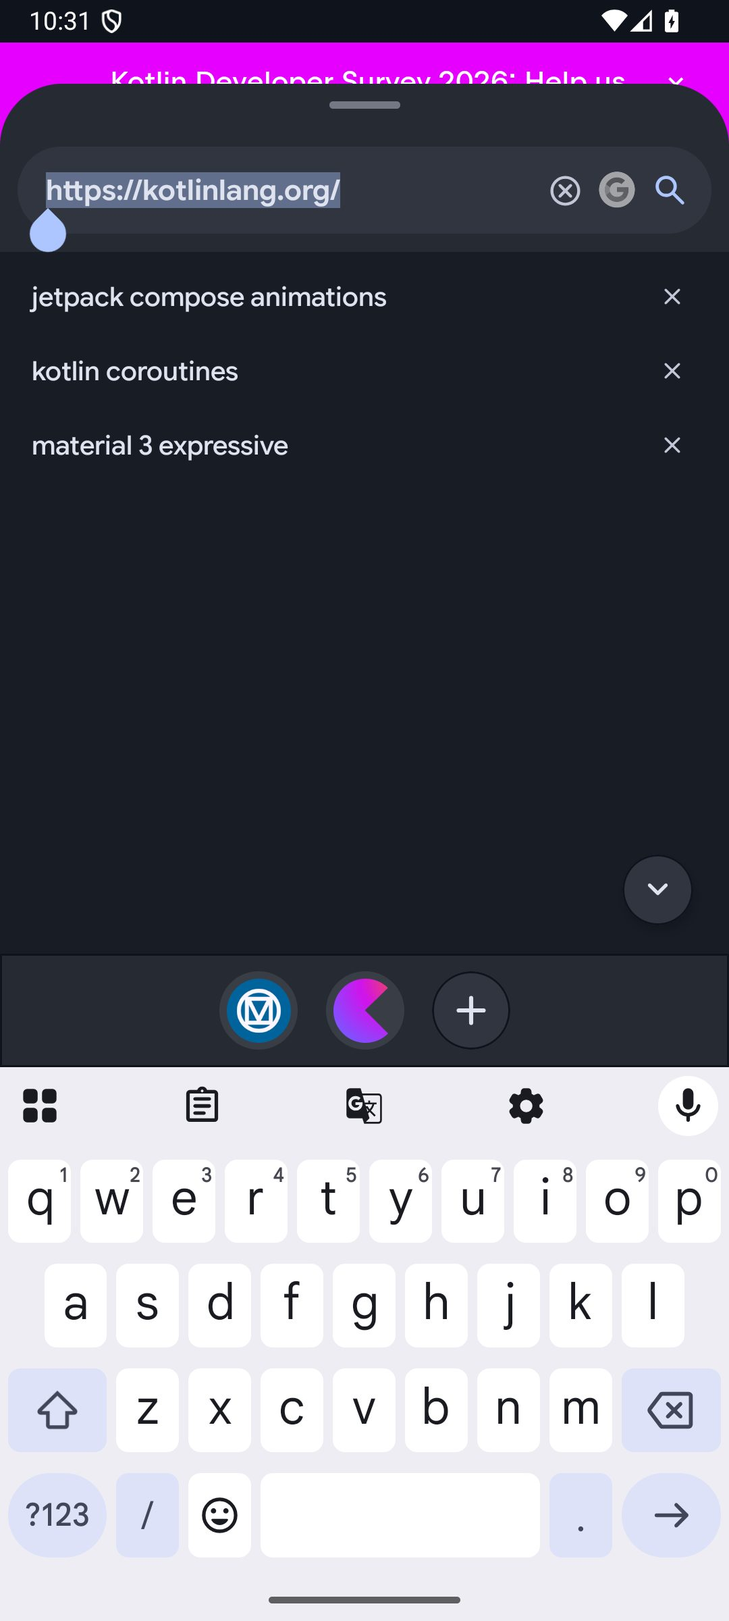
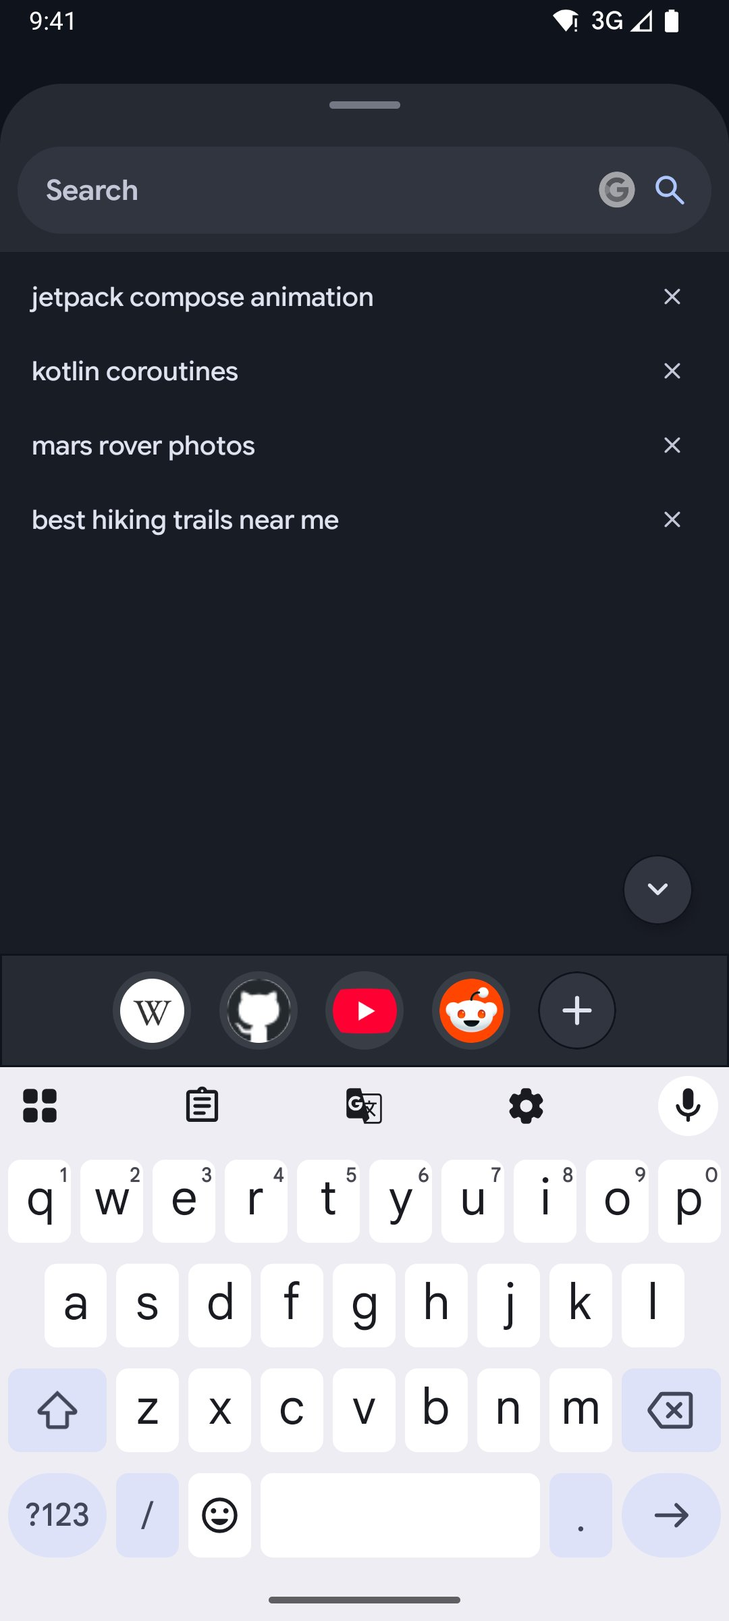
1.1.1: stacked update dialog, address bar and history title fixes, new docs screenshots
- Dialogs with 3+ buttons show the main action as one large full-width
  button with the others below (fixes the overflowing update prompt).
- Address bar shows the full URL when tapped: the focusing tap's stale
  pre-swap text no longer puts the host back.
- History entries saved before the page title arrived get the real title.
- Docs and README: new full-resolution screenshots and text for the tab
  switcher, search suggestions and tab menu; README links the legacy branch.
- Version 1.1.1 (111).

diff --git a/docs/src/app/user/page.tsx b/docs/src/app/user/page.tsx
@@ -81,7 +81,7 @@ export default function UserDocs() {
                   <div className="space-y-6 inline-block text-left w-full">
                     <div className="space-y-4">
                       <GuideItem icon={<MousePointer2 size={18} />} title="Tap the Pill" desc="Focuses the address bar. Type a URL or a search query to navigate instantly." />
-                      <GuideItem icon={<ChevronRight size={18} className="-rotate-90" />} title="Swipe Up" desc="Opens the Tab Switcher: every open tab as a card, with quick actions, Bookmarks and Settings." />
+                      <GuideItem icon={<ChevronRight size={18} className="-rotate-90" />} title="Swipe Up" desc="Opens the Tab Switcher. The page shrinks into its card as your finger moves, like a phone's recent apps screen." />
                       <GuideItem icon={<ChevronRight size={18} className="rotate-90" />} title="Swipe Down" desc="Hides the Pill entirely for an immersive full-screen experience. Tap or swipe up on the floating recall button to bring it back." />
                       <div id="recall-button">
                         <GuideItem icon={<GripHorizontal size={18} />} title="Move the Recall Button" desc="While the Pill is hidden, swipe the recall button left or right. It follows your finger and pins to the left, center, or right of the screen, wherever you let go." />
@@ -102,34 +102,34 @@ export default function UserDocs() {
                     </div>
                   </div>
                 </div>
-                <DeviceMockup src="/images/homepage.jpg" color="blue" />
+                <DeviceMockup src="/images/browsing.jpg" color="blue" />
               </div>
             </motion.div>
 
-            {/* 2. The Dashboard - IMAGE LEFT */}
+            {/* 2. The Tab Switcher - IMAGE LEFT */}
             <motion.div id="dashboard" {...fadeInUp} className="space-y-12">
               <div className="flex items-center justify-center sm:justify-start gap-3">
                 <div className="p-2 rounded-xl bg-orange-500/10 text-orange-600">
                   <Layout size={24} />
                 </div>
-                <h2 className="text-2xl sm:text-3xl font-bold tracking-tight">The Dashboard</h2>
+                <h2 className="text-2xl sm:text-3xl font-bold tracking-tight">The Tab Switcher</h2>
               </div>
               <div className="grid lg:grid-cols-2 gap-12 items-center text-center sm:text-left lg:flex-row-reverse">
                 <div className="order-2 lg:order-1">
-                  <DeviceMockup src="/images/dashboard.jpg" color="orange" />
+                  <DeviceMockup src="/images/tab_switcher.jpg" color="orange" />
                 </div>
                 <div className="space-y-6 order-1 lg:order-2">
                   <p className="text-base sm:text-lg text-white/60 leading-relaxed font-medium">
-                    Swipe up on the Pill from any page to open the Tab Switcher. The bar at the bottom acts on the centered tab: share, bookmark, new tab (+), close, and the ⋮ tab menu. Bookmarks sit on the left, Settings on the right.
+                    Swipe up on the Pill from any page to open the Tab Switcher. Your current tab sits on the far right; swipe right to go back through the tabs you used before. The bar at the bottom has a new tab button (+) and the ⋮ tab menu, with Bookmarks on the left and Settings on the right.
                   </p>
                   <div className="grid grid-cols-1 sm:grid-cols-2 gap-4 text-left">
-                    <GuideItem icon={<Layers size={18} />} title="Tabs" desc="Swipe between cards and tap one to open it." />
-                    <GuideItem icon={<Bookmark size={18} />} title="Bookmarks" desc="The left button opens your Library: Bookmarks and History." />
-                    <GuideItem icon={<History size={18} />} title="History" desc="Switch to History from the Library header." />
-                    <GuideItem icon={<Settings2 size={18} />} title="Settings" desc="The right button opens app Settings." />
+                    <GuideItem icon={<Layers size={18} />} title="Tabs" desc="Swipe between cards and tap one to zoom back into it. Most recently used on the right." />
+                    <GuideItem icon={<Bookmark size={18} />} title="Library" desc="The left button opens Bookmarks and History on top of the switcher; closing it takes you back." />
+                    <GuideItem icon={<History size={18} />} title="New Tab" desc="The + button opens a fresh tab and zooms into it." />
+                    <GuideItem icon={<Settings2 size={18} />} title="Settings" desc="The right button opens Settings on top of the switcher." />
                   </div>
                   <div className="p-4 rounded-xl border border-white/5 bg-white/5 text-[10px] sm:text-xs text-white/50">
-                    <p><strong>Tab Menu:</strong> Tap ⋮ in the switcher for Find in Page, QR tools, Print, Add to Home screen, and the Desktop and Reader Mode toggles.</p>
+                    <p><strong>Tab Menu:</strong> Tap ⋮ for actions on the centered tab: Share, Bookmark in folder, Find in Page, QR tools, Print, Add to Home screen, Desktop and Reader Mode, and Close all tabs.</p>
                   </div>
                 </div>
               </div>
@@ -150,6 +150,7 @@ export default function UserDocs() {
                   </p>
                   <div className="space-y-4 inline-block text-left w-full">
                     <GuideItem icon={<Clock size={18} />} title="Recent Searches" desc="Drag the handle above the focused Pill upwards to reveal your recent searches. Tap one to put it back in the address bar." />
+                    <GuideItem icon={<Search size={18} />} title="Search Suggestions" desc="While the drawer is open, suggestions from your search engine appear as you type, after your own matching past searches. The drawer never opens by itself." />
                     <GuideItem icon={<FolderHeart size={18} />} title="Favorites Bar" desc="A persistent row of your top 5 pinned sites sits at the bottom of the drawer for instant navigation." />
                     <GuideItem icon={<Maximize size={18} />} title="Adding Favorites" desc="Tap the '+' icon in the Favorites Bar to instantly pin the current page to your quick-access list." />
                     <GuideItem icon={<GripHorizontal size={18} />} title="Rearrange Favorites" desc="Touch and drag any favorite icon to reorder them instantly." />
@@ -173,18 +174,18 @@ export default function UserDocs() {
               </div>
               <div className="grid lg:grid-cols-2 gap-12 items-center text-center sm:text-left lg:flex-row-reverse">
                 <div className="order-2 lg:order-1">
-                  <DeviceMockup src="/images/tab_grid.jpg" color="purple" />
+                  <DeviceMockup src="/images/tab_zoom.jpg" color="purple" />
                 </div>
                 <div className="space-y-6 order-1 lg:order-2">
                   <p className="text-base sm:text-lg text-white/60 leading-relaxed font-medium">
-                    Your tabs are laid out like an app switcher, with live snapshots so you never lose your place.
+                    Moving between tabs feels like switching apps: the live page zooms out into its card under your finger, and zooms back in when you pick a tab.
                   </p>
                   <div className="space-y-4 inline-block text-left">
-                    <GuideItem icon={<Trash2 size={18} />} title="Closing Tabs" desc="Swipe a card up to close it, then tap Undo if you didn't mean to. Use 'Close all tabs' in the ⋮ menu to reset completely." />
+                    <GuideItem icon={<Trash2 size={18} />} title="Closing Tabs" desc="Swipe a card up. It resists until you pass the threshold (you'll feel a tick), then follows your finger; let go to close. Tap Undo if you didn't mean to. 'Close all tabs' is in the ⋮ menu." />
                     <div id="tab-editing">
                       <GuideItem icon={<Pencil size={18} />} title="Tab Editing" desc="Long-press a card to rename the tab." />
                     </div>
-                    <GuideItem icon={<Zap size={18} />} title="Visual Snapshots" desc="Real-time previews of your pages help you identify the right tab in seconds." />
+                    <GuideItem icon={<Zap size={18} />} title="Live Previews" desc="Every card shows a snapshot of its page, updated whenever you leave the tab." />
                   </div>
                 </div>
               </div>
@@ -204,7 +205,7 @@ export default function UserDocs() {
                     Keep your favorite corners of the web organized. mi. Browser provides a flexible bookmarking system with folder support.
                   </p>
                   <div className="space-y-4 inline-block text-left w-full">
-                    <GuideItem icon={<MousePointer2 size={18} />} title="Quick Save" desc="Open the Dashboard Menu and select 'Bookmark' to instantly save the current page to your library." />
+                    <GuideItem icon={<MousePointer2 size={18} />} title="Quick Save" desc="Open the Tab Switcher's ⋮ menu and choose 'Bookmark in folder…' to save the centered tab to your library." />
                     <div id="bookmark-swiping">
                       <GuideItem icon={<RefreshCw size={18} />} title="Swipe to Edit" desc="Swipe left on any bookmark or folder to reveal Edit and Delete actions. You can change names, URLs, or move items between folders." />
                     </div>
@@ -356,7 +357,7 @@ export default function UserDocs() {
                 </div>
                 <div className="space-y-6 order-1 lg:order-2">
                   <p className="text-base sm:text-lg text-white/60 leading-relaxed font-medium">
-                    Tap the Menu button on the Dashboard to access advanced utility tools for any page.
+                    Tap ⋮ in the Tab Switcher to access utility tools for the centered tab.
                   </p>
                   <div className="grid grid-cols-1 gap-4 inline-block text-left w-full">
                     <div id="home-button">

diff --git a/app/src/main/java/com/jlees/mibrowser/ui/Pill.kt b/app/src/main/java/com/jlees/mibrowser/ui/Pill.kt
@@ -314,6 +314,9 @@ private fun SearchPillContent(vm: BrowserViewModel, pill: PillState, focusedAdd:
     val s = vm.settings
     val focusRequester = remember { FocusRequester() }
     var tfv by remember { mutableStateOf(TextFieldValue(vm.inputUrl)) }
+    // On focus the host is swapped for the full URL, but the focusing tap then reports its cursor placement together
+    // with the pre-swap text; that report must not put the host back. Cleared once focus settles.
+    var staleText by remember { mutableStateOf<String?>(null) }
     // selectTextOnFocus: the tap that focuses the field places the cursor right after focus; re-select everything
     // once that settles (this also syncs the keyboard's selection, so typing replaces the URL).
     LaunchedEffect(vm.isInputFocused) {
@@ -322,6 +325,7 @@ private fun SearchPillContent(vm: BrowserViewModel, pill: PillState, focusedAdd:
             kotlinx.coroutines.delay(120)
             // only if nothing was typed meanwhile, or the first keystroke would be selected and overwritten
             if (tfv.text == before) tfv = tfv.copy(selection = TextRange(0, tfv.text.length))
+            staleText = null
         }
     }
     LaunchedEffect(vm.inputUrl) { if (tfv.text != vm.inputUrl) tfv = TextFieldValue(vm.inputUrl, TextRange(vm.inputUrl.length)) }
@@ -372,7 +376,11 @@ private fun SearchPillContent(vm: BrowserViewModel, pill: PillState, focusedAdd:
                 Row(Modifier.fillMaxSize().padding(end = 12.dp), verticalAlignment = Alignment.CenterVertically) {
                     BasicTextField(
                         value = tfv,
-                        onValueChange = { if (it.text != tfv.text) vm.onTyping(it.text, pill.recentExpanded); tfv = it; vm.inputUrl = it.text },
+                        onValueChange = { v ->
+                            if (v.text == staleText && v.text != tfv.text) return@BasicTextField // stale pre-focus text (see staleText)
+                            if (v.text != tfv.text) vm.onTyping(v.text, pill.recentExpanded)
+                            tfv = v; vm.inputUrl = v.text
+                        },
                         modifier = Modifier.weight(1f).padding(horizontal = 16.dp)
                             .pointerInput(Unit) {
                                 awaitEachGesture {
@@ -393,6 +401,7 @@ private fun SearchPillContent(vm: BrowserViewModel, pill: PillState, focusedAdd:
                             .onFocusChanged { st ->
                                 if (st.isFocused && !vm.isInputFocused) {
                                     vm.isInputFocused = true
+                                    staleText = tfv.text
                                     val full = vm.activeUrl ?: ""
                                     vm.inputUrl = full
                                     tfv = TextFieldValue(full, TextRange(0, full.length)) // selectTextOnFocus

diff --git a/docs/src/app/page.tsx b/docs/src/app/page.tsx
@@ -71,9 +71,9 @@ export default function Home() {
       {/* Detailed Features: Alternating Sections */}
       <div className="space-y-24 sm:space-y-32 py-24 sm:py-32">
         
-        {/* The Pill / Dashboard */}
+        {/* The Pill */}
         <FeatureDetail 
-          image={getAssetPath("/images/dashboard.jpg")}
+          image={getAssetPath("/images/browsing.jpg")}
           tag="Interaction"
           tagColor="text-blue-600 dark:text-blue-400 bg-blue-500/10 border-blue-500/20"
           title="One Pill. Total Control."
@@ -90,16 +90,16 @@ export default function Home() {
 
         {/* Tab Management */}
         <FeatureDetail 
-          image={getAssetPath("/images/tab_grid.jpg")}
+          image={getAssetPath("/images/tab_zoom.jpg")}
           tag="Organization"
           tagColor="text-purple-600 dark:text-purple-400 bg-purple-500/10 border-purple-500/20"
           title="Visual Tab Management."
-          description="Stop guessing which tab is which. The Tab Switcher shows your tabs like recent apps, with live snapshots. Swipe a card up to close it."
+          description="Swipe up and the page zooms out into a card, just like your phone's recent apps. Your tabs line up by when you last used them, with live previews. Swipe a card up to close it."
           bullets={[
-            "Visual snapshot previews",
+            "Zooms with your finger",
+            "Most recent tab on the right",
             "Swipe up to close, with undo",
-            "Tab actions in one bar",
-            "Hyper-fast tab switching"
+            "Live previews of every tab"
           ]}
           imageSide="left"
           glowColor="purple"
@@ -128,7 +128,7 @@ export default function Home() {
           tag="Utility"
           tagColor="text-cyan-600 dark:text-cyan-400 bg-cyan-500/10 border-cyan-500/20"
           title="Power in your pocket."
-          description="The Power Tools menu provides instant access to the utilities you use most. From built-in QR code generation and scanning to desktop mode toggles and a clean Reader View, everything is just a tap away in the Dashboard Menu."
+          description="The Power Tools menu provides instant access to the utilities you use most. From built-in QR code generation and scanning to desktop mode toggles and a clean Reader View, everything is just a tap away in the Tab Switcher's ⋮ menu."
           bullets={[
             "Integrated QR Toolbox",
             "One-tap Reader Mode",

diff --git a/app/src/main/java/com/jlees/mibrowser/ui/Overlays.kt b/app/src/main/java/com/jlees/mibrowser/ui/Overlays.kt
@@ -41,6 +41,8 @@ import androidx.compose.ui.focus.focusRequester
 import androidx.compose.ui.focus.onFocusChanged
 import androidx.compose.ui.graphics.Color
 import androidx.compose.ui.graphics.SolidColor
+import androidx.compose.material3.MaterialTheme
+import androidx.compose.material3.Text
 import androidx.compose.ui.graphics.asAndroidBitmap
 import androidx.compose.ui.platform.LocalContext
 import androidx.compose.ui.platform.LocalFocusManager
@@ -305,11 +307,29 @@ fun CustomAlert(data: AlertData?, onButton: () -> Unit, onCancel: () -> Unit) {
     var last by remember { mutableStateOf(data) }
     if (data != null) last = data
     val d = last ?: return
+    // 3+ buttons don't fit in one row: the last (main) action becomes a large full-width button, the rest go below it
+    val stacked = d.buttons.size > 2
     ModalFrame(data != null, onCancel, dismissOnScrim = true) {
-        DialogCard(d.title, actions = {
+        DialogCard(d.title, actions = if (stacked) null else { {
             d.buttons.forEach { b -> DialogAction(b.text, destructive = b.style == "destructive") { onButton(); b.onPress() } }
-        }) {
+        } }) {
             Txt(d.message, 14f, ui.cs.onSurfaceVariant, ui.regular, lineHeight = 20f)
+            if (stacked) {
+                val main = d.buttons.last()
+                Button({ onButton(); main.onPress() }, Modifier.fillMaxWidth().padding(top = 24.dp).heightIn(min = 52.dp)) {
+                    Text(main.text, style = MaterialTheme.typography.labelLarge)
+                }
+                Row(Modifier.fillMaxWidth().padding(top = 8.dp), horizontalArrangement = Arrangement.spacedBy(8.dp)) {
+                    d.buttons.dropLast(1).forEach { b ->
+                        TextButton({ onButton(); b.onPress() }, Modifier.weight(1f)) {
+                            Text(
+                                b.text, color = if (b.style == "destructive") ui.cs.error else ui.cs.primary,
+                                style = MaterialTheme.typography.labelLarge, textAlign = TextAlign.Center, maxLines = 2,
+                            )
+                        }
+                    }
+                }
+            }
         }
     }
 }

diff --git a/docs/src/components/search.tsx b/docs/src/components/search.tsx
@@ -17,7 +17,7 @@ const MOCK_DATA: SearchResult[] = [
   { title: "Core Interactions", type: "User Guide", href: "/user#the-pill", excerpt: "Master the core interaction element: tap and swipe-up gestures." },
   { title: "The Pill", type: "User Guide", href: "/user#the-pill", excerpt: "Master the core interaction element: tap and swipe-up gestures." },
   { title: "Navigation Gestures", type: "User Guide", href: "/user#gestures", excerpt: "Learn horizontal swipe gestures for back/forward navigation." },
-  { title: "Tab Switcher", type: "User Guide", href: "/user#dashboard", excerpt: "Swipe up on the Pill for your tabs, quick actions, Bookmarks and Settings." },
+  { title: "Tab Switcher", type: "User Guide", href: "/user#dashboard", excerpt: "Swipe up on the Pill: the page zooms into a recent-apps style view of your tabs." },
   { title: "Recent Searches", type: "User Guide", href: "/user#recent-history", excerpt: "Drag the search handle up to reveal recent searches and favorites." },
   { title: "Recall Button", type: "User Guide", href: "/user#recall-button", excerpt: "Swipe the recall button sideways to pin it left, center, or right." },
   { title: "Tab Management", type: "User Guide", href: "/user#tabs", excerpt: "Visual snapshots, swipe to close, and undo." },

diff --git a/app/src/main/java/com/jlees/mibrowser/logic/Logic.kt b/app/src/main/java/com/jlees/mibrowser/logic/Logic.kt
@@ -63,7 +63,11 @@ fun pushNavigation(t: TabItem, url: String): Pair<List<String>, Int> {
 /** addToHistory: returns new (history, recentSearches). */
 fun addHistory(history: List<HistoryItem>, recents: List<HistoryItem>, url: String, title: String?, now: Long = System.currentTimeMillis()): Pair<List<HistoryItem>, List<HistoryItem>> {
     if (url.isEmpty() || url == "about:blank") return history to recents
-    val newHistory = if (history.isNotEmpty() && history[0].url == url) history else {
+    val newHistory = if (history.isNotEmpty() && history[0].url == url) {
+        // the page was recorded before its title arrived (host placeholder): take the real title now
+        val better = historyTitle(url, title)
+        if (better != history[0].title && better != displayHost(url)) listOf(history[0].copy(title = better)) + history.drop(1) else history
+    } else {
         val trimmed = url.removeSuffix("/")
         (listOf(HistoryItem(url, historyTitle(url, title), now, uniqueId())) + history.filter { it.url.removeSuffix("/") != trimmed }).take(1000)
     }

diff --git a/docs/src/app/developer/page.tsx b/docs/src/app/developer/page.tsx
@@ -68,9 +68,9 @@ export default function DeveloperDocs() {
                             { name: "Homepage", src: "/images/homepage.jpg" },
                             { name: "Focused Pill", src: "/images/focused_pill.jpg" },
                             { name: "Expanded Search", src: "/images/recent_history.jpg" },
-                            { name: "Dashboard", src: "/images/dashboard.jpg" },
-                            { name: "Tabs Grid", src: "/images/tab_grid.jpg" },
-                            { name: "Tabs List", src: "/images/tab_rows.jpg" },
+                            { name: "Browsing", src: "/images/browsing.jpg" },
+                            { name: "Tab Switcher", src: "/images/tab_switcher.jpg" },
+                            { name: "Tab Zoom", src: "/images/tab_zoom.jpg" },
                             { name: "Bookmarks", src: "/images/bookmarks.jpg" },
                             { name: "History", src: "/images/history.jpg" },
                             { name: "Power Tools", src: "/images/power_tools.jpg" },

diff --git a/app/src/test/java/com/jlees/mibrowser/LogicTest.kt b/app/src/test/java/com/jlees/mibrowser/LogicTest.kt
@@ -75,6 +75,15 @@ class LogicTest {
         assertEquals(false, newer("v1.0.0-beta", "1.0.0"))
     }
 
+    @Test fun historyTitleUpgradesFromHostPlaceholder() {
+        val url = "https://en.wikipedia.org/wiki/Mars"
+        val (h1, _) = addHistory(emptyList(), emptyList(), url, "en.wikipedia.org") // loaded before the title arrived
+        val (h2, _) = addHistory(h1, emptyList(), url, "Mars - Wikipedia")
+        assertEquals(listOf("Mars - Wikipedia"), h2.map { it.title })
+        val (h3, _) = addHistory(h2, emptyList(), url, null) // a later call without a title keeps the real one
+        assertEquals("Mars - Wikipedia", h3[0].title)
+    }
+
     @Test fun tabHistoryIsCapped() {
         val (stack, idx) = capped(List(MAX_TAB_HISTORY + 5) { "https://e.com/$it" }, MAX_TAB_HISTORY + 4)
         assertEquals(MAX_TAB_HISTORY, stack.size)

diff --git a/README.md b/README.md
@@ -3,10 +3,10 @@
 **mi.** (pronounced "my") is a hyper-lightweight, distraction-free Android browser. It replaces the traditional toolbar with a single, gesture-driven **Pill**, and is built natively in **Kotlin** with **Jetpack Compose** and **Material 3 Expressive**.
 
 <p align="center">
-  <img src="docs/public/images/homepage.jpg" width="200" alt="Home page" />
-  <img src="docs/public/images/dashboard.jpg" width="200" alt="Pill toolbar" />
-  <img src="docs/public/images/tab_grid.jpg" width="200" alt="Tabs" />
-  <img src="docs/public/images/settings.jpg" width="200" alt="Settings" />
+  <img src="docs/public/images/browsing.jpg" width="200" alt="Browsing with the Pill" />
+  <img src="docs/public/images/tab_zoom.jpg" width="200" alt="Swiping up: the page zooms into the tab switcher" />
+  <img src="docs/public/images/tab_switcher.jpg" width="200" alt="Tab switcher" />
+  <img src="docs/public/images/focused_pill.jpg" width="200" alt="Search with suggestions" />
 </p>
 
 ## 🌐 Website
@@ -18,9 +18,10 @@ Features, screenshots and guides: **[jleescy.github.io/mi-browser](https://jlees
 ## 🚀 Highlights
 - **The Pill**: one control for everything. Tap to search (with suggestions), swipe up for the tab switcher, swipe sideways for back/forward, swipe down to hide it. The recall button can be pinned left, center or right.
 - **Material 3 Expressive**: colors generated from your accent or your wallpaper (Material You), Light/Dark/System themes, Google Sans Flex (with an optional rounded style) and Material Symbols.
-- **Tab switcher**: an app-switcher-style carousel of live tab previews. Swipe a card up to close it (with undo); quick actions, the tab menu, bookmarks and settings sit in the bottom bar.
+- **Tab switcher**: swipe up and the page zooms out into its card, just like your phone's recent apps. Tabs line up by when you last used them (current tab on the right), with live previews. Swipe a card up to close it (with undo); new tab, the tab menu, bookmarks and settings sit in the bottom bar.
+- **Search**: suggestions from your search engine after your own past searches, plus a favorites bar.
 - **Bookmarks & history**: folders, drag to reorder, swipe actions, search, and grouping by time or site.
-- **Power tools**: find in page, QR scan (camera or image) and generate, reader mode, desktop mode, share and print.
+- **Power tools** (in the tab menu): find in page, QR scan (camera or image) and generate, reader mode, desktop mode, share and print.
 - **Privacy & security**: built-in ad/tracker blocking, third-party cookies blocked, HTTPS-only mode, per-site camera/mic/location prompts, pop-up blocking, confirmation before downloads or opening other apps, punycode display for look-alike domains, Safe Browsing. No tracking; all data stays on your device.
 
 ## 📥 Installation
@@ -51,7 +52,7 @@ app/src/main/java/com/jlees/mibrowser/
 docs/                     # project website (Next.js, deployed to GitHub Pages)
 ```
 
-The 0.x releases were built with React Native; 1.0 is a ground-up native rewrite. The old source is in git history at commit `c22a4d8`.
+The 0.x releases were built with React Native; 1.0 is a ground-up native rewrite. The old source is on the [`legacy`](https://github.com/jleescy/mi-browser/tree/legacy) branch.
 
 ---
 <p align="center">

diff --git a/notes/KOTLIN_PORT_PLAN.md b/notes/KOTLIN_PORT_PLAN.md
@@ -32,6 +32,7 @@ Goal: an Android-only Kotlin + Jetpack Compose app that behaves identically, fea
 - **Memory/efficiency audit**: at most `MAX_LIVE_TABS` (5) live WebViews, least recently viewed evicted with `saveState` and restored with `restoreState` when opened (fresh WebViews load the tab's current URL, not its first requested one); `onTrimMemory(BACKGROUND+)` trims to the visible tab; `onDestroy` destroys all WebViews; unused pop-up WebViews are destroyed after 10 s; per-tab history capped at 100 (`MAX_TAB_HISTORY`); startup sweep of orphaned previews, upload captures, shared QR images, the update APK, and replaced home backgrounds; 16 MB `HttpResponseCache` for favicons/suggestions. Already bounded: history 1000, recent searches 20, image cache 24 MB, debounced off-main-thread saves. The blocklist set costs ~4–5 MB of heap.
 - **Switcher previews for every tab**: besides the swipe-up capture, the outgoing tab is captured whenever the active tab changes outside the switcher (`setActiveTab`/`addNewTab` → `vm.capturePreview`, a hook set by MainActivity and cleared in `onDestroy`). Tabs never shown (background tabs) still show their host until visited.
 - **Search pill never auto-focuses**: `focusProperties { canFocus = allowFocus }` on the field; `allowFocus` is set by a touch-down on the field (Initial pass) or a `UiEvent.FocusInput` request, and reset on blur or when the touch turns into a swipe (the swipe up to the switcher starts on the field); focus is also refused while the switcher is visible. Cause: removing a focused WebView (closing/switching tabs) hands focus back to Compose, which picks the first focusable; on a blank home tab that is the field.
+- **1.1.1**: dialogs with 3+ buttons stack them (main action full width, others below) — fixes the overflowing update prompt; the address bar shows the full URL on focus (the focusing tap reported the pre-swap host text, now ignored via `staleText`); history entries recorded before the page title arrived get the real title (`addHistory`). Docs/README screenshots retaken for the tab switcher.
 - **Deferred (user asked to save for later)**, in suggested order:
   1. Private tabs: incognito storage via the WebView Profile API, no history; own row or styling in the switcher.
   2. Pull-to-refresh.
